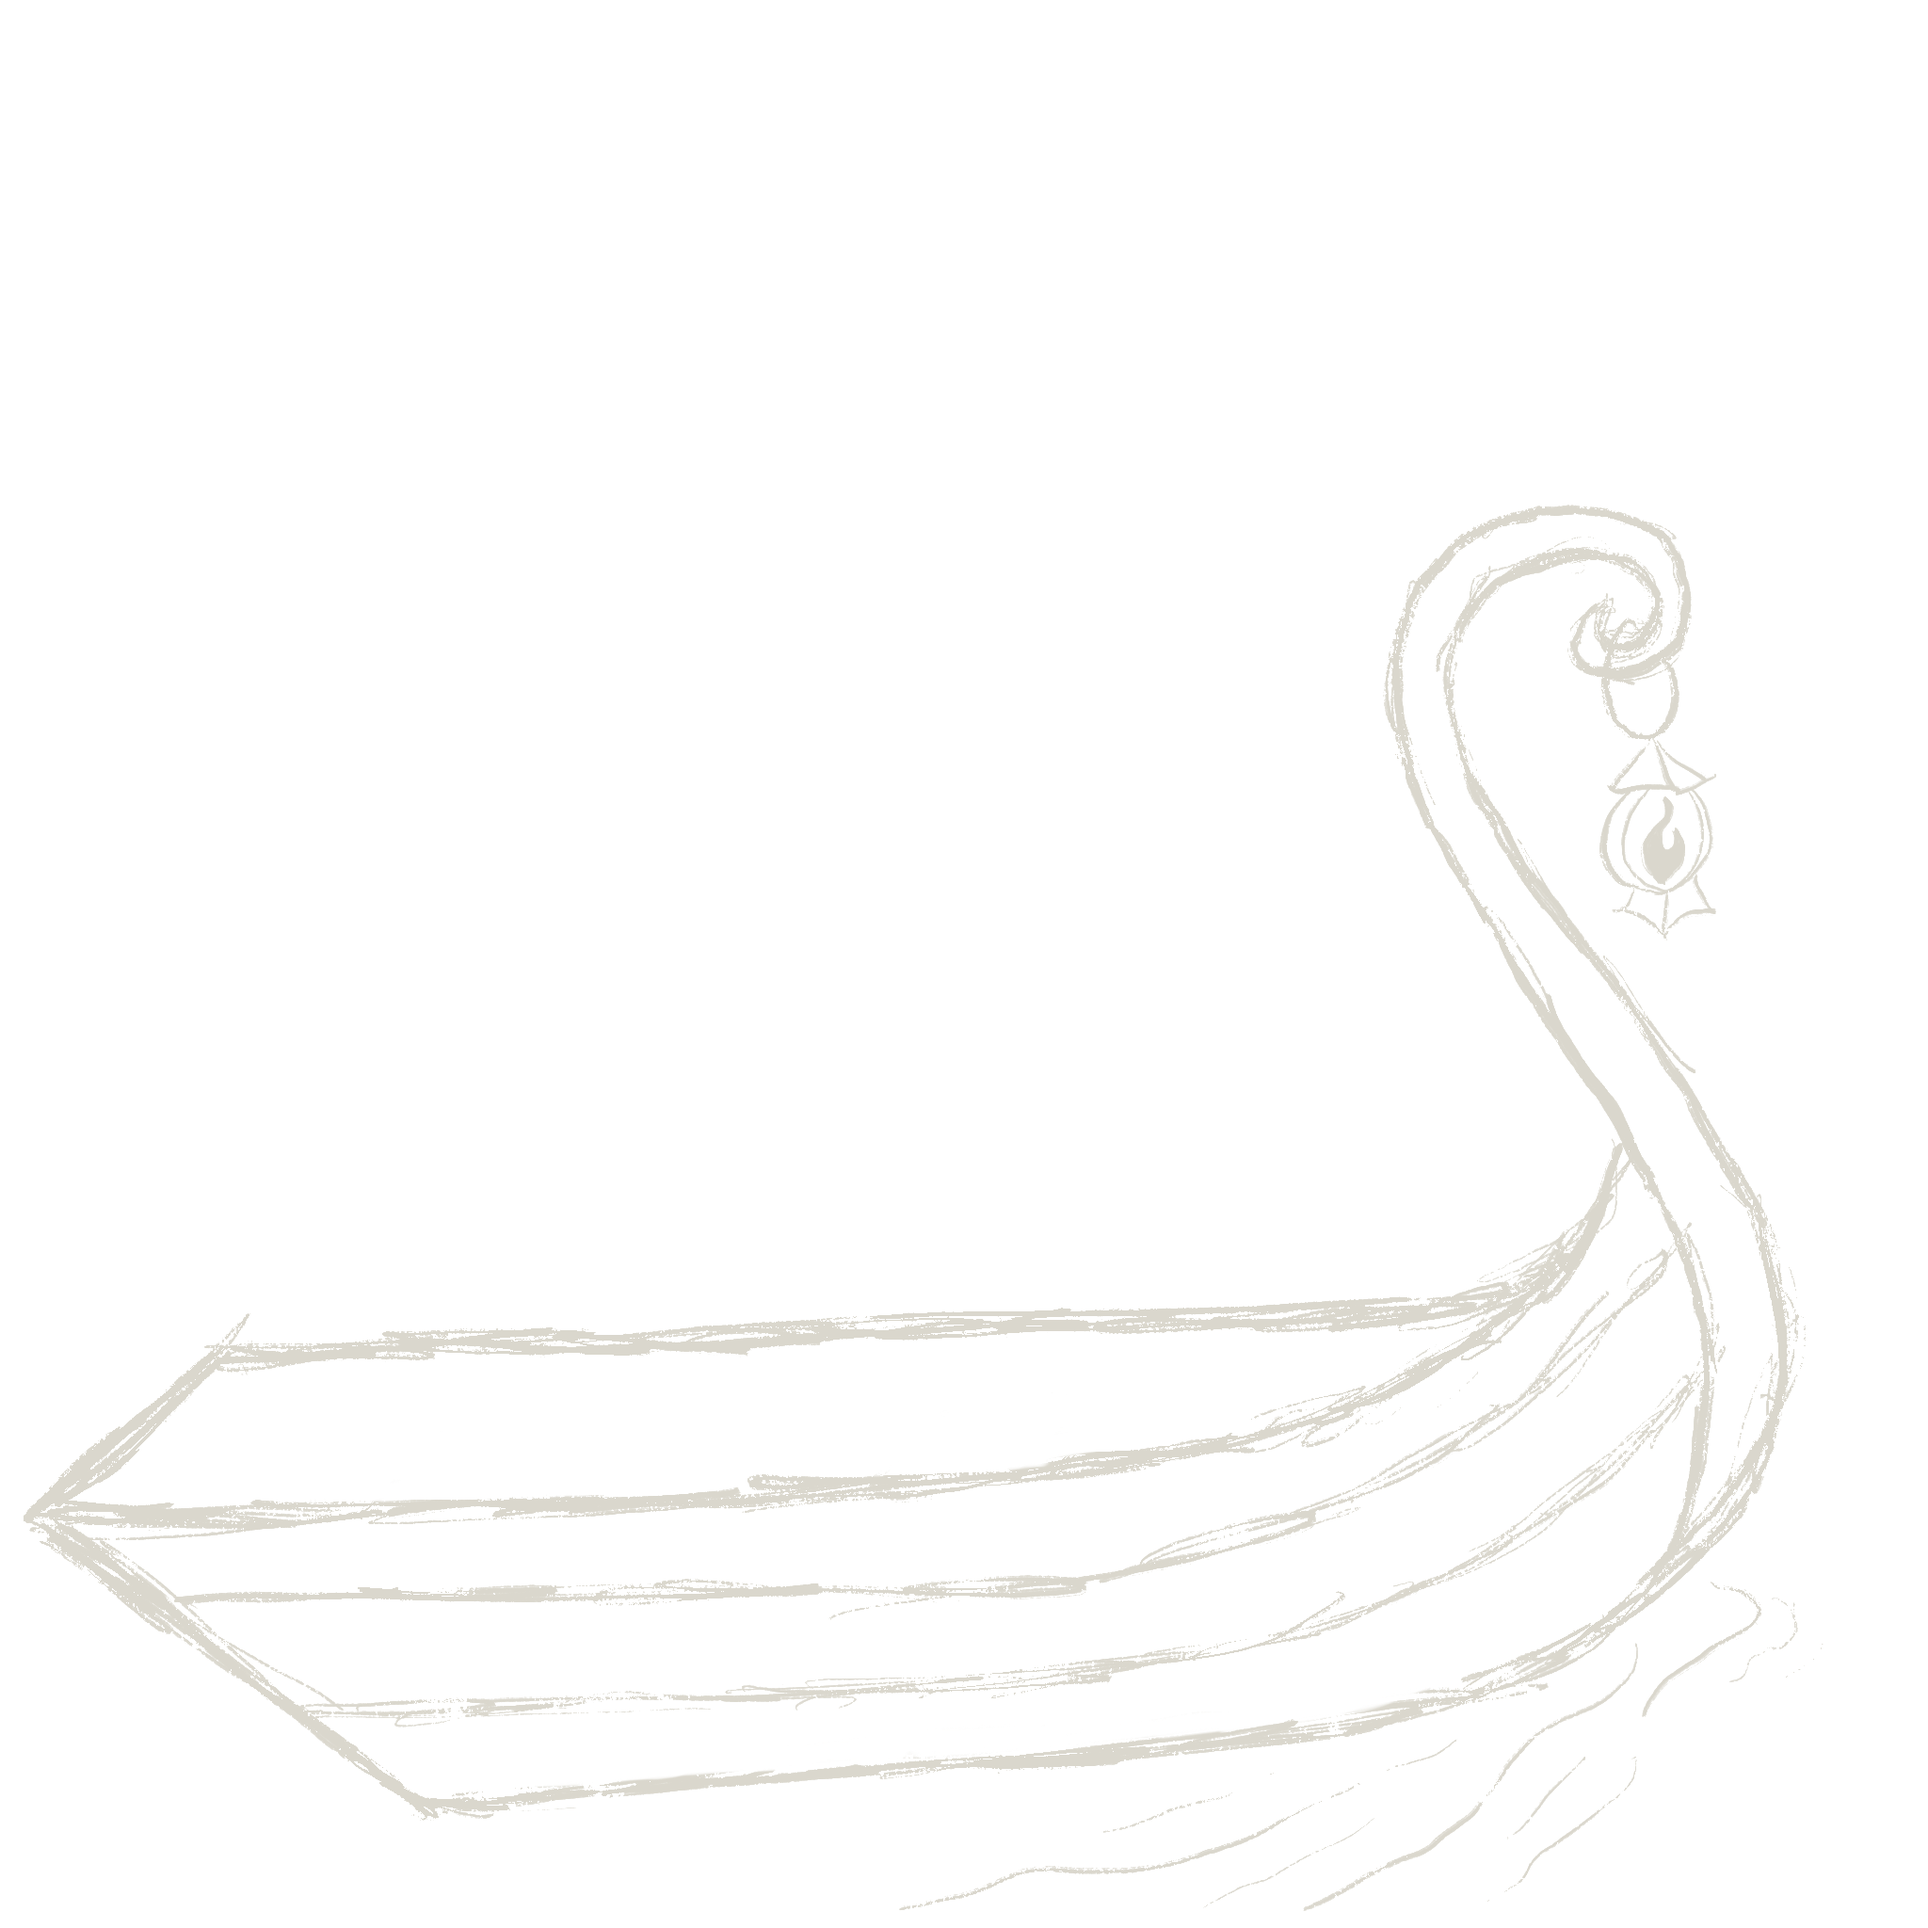
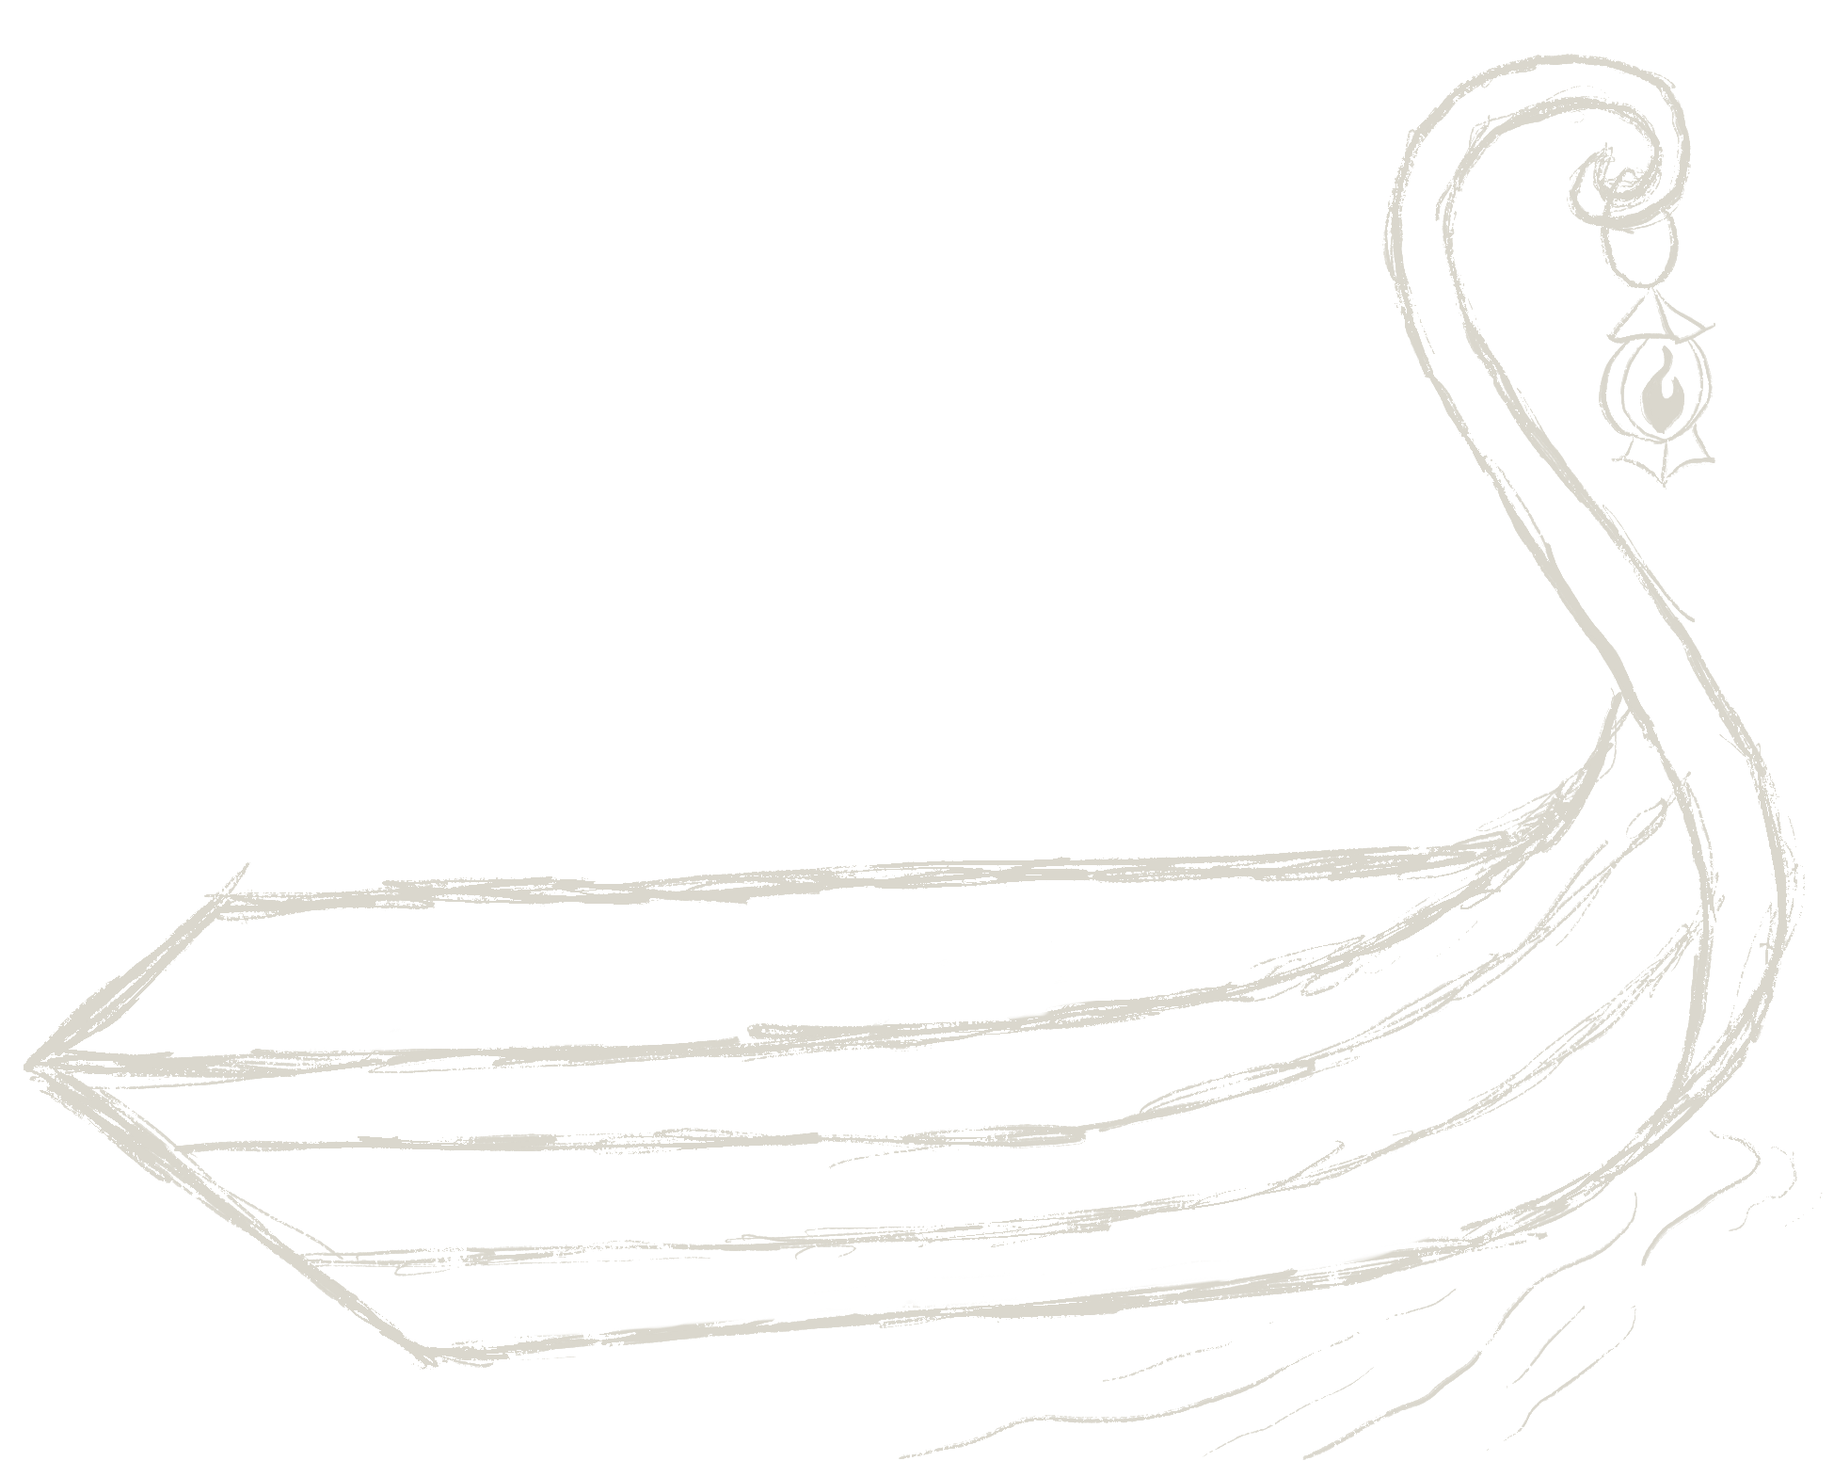
added animation to home page

Changed region(s): [[0.0, 0.0312, 0.9851, 0.9681], [0.7388, 0.9057, 0.8004, 0.9681], [0.7081, 0.9681, 0.7388, 0.9994]]

diff --git a/client/src/components/Header.jsx b/client/src/components/Header.jsx
@@ -1,13 +1,13 @@
-import { useState } from "react"
+// import { useState } from "react"
 
 const Header = () => {
-  const [ showDropDown, setShowDropDown ] = useState(false)
+  // const [ showDropDown, setShowDropDown ] = useState(false)
 
   return (
     <header className="px-2 pb-0 mb-0" style={{ borderBottom: "1px solid #333" }}>
       <nav className="navbar navbar-dark navbar-expand-md bg-body-secondary" data-bs-theme="dark">
         <div className="container-fluid">
-          {/* <a className="navbar-brand" href="##">Navbar</a> */}
+          <a className="navbar-brand" href="##">Navbar</a>
           <button className="navbar-toggler" type="button" data-bs-toggle="collapse" data-bs-target="#navbarSupportedContent" aria-controls="navbarSupportedContent" aria-expanded="false" aria-label="Toggle navigation">
             <span className="navbar-toggler-icon"></span>
           </button>

diff --git a/client/src/pages/HomePage.js b/client/src/pages/HomePage.js
@@ -1,5 +1,6 @@
 
 import {Ccc, CharonDd, Boat} from "../img/images"
+import { motion } from "framer-motion";
 const HomePage = (props) => {
 
   return (
@@ -7,13 +8,18 @@ const HomePage = (props) => {
       <img src={CharonDd} alt= "illustration reading: Charon death doula" className="charonDdImg"></img>
 
       <img src={Ccc} alt= "Illustration reading: Conscious compassionate care" className="cccImg"></img>
-    {/* <motion.div animate={{x:[0, 100], opacity: 1, scale: 1}}
+      <div className="motion">
+    <motion.div animate={{x:[0, 900]}}
     transition={{
-      duration:5,
+      ease: "linear",
+      duration: 20,
       delay: .5,
-    }} > */}
+    }} 
+    >
       <img src={Boat} alt= "illustration of boat with guiding light" className="boatImg" ></img>
-      {/* </motion.div> */}
+      </motion.div>
+     
+      </div>
     </div>
 
   )

diff --git a/client/src/styles/global.css b/client/src/styles/global.css
@@ -1,5 +1,7 @@
 
-
+* {
+  background-color: #1A1423;
+}
 /* === typography ====== */ 
 
 h1, h2, h3, h4, h5, h6, p, li, td, th, blockquote, label, input, textarea, select {
@@ -27,19 +29,20 @@ p {
 }
 .HomeContainer {
   display: flex;
-  flex-direction: column;
+  flex-wrap: wrap;
+  align-items: center;
 }
 .charonDdImg {
-  height: 20%;
-  width: 20%;
-}
-.cccImg {
-  height: 100%;
-  width: 100%;
-}
-.boatImg {
   height: 30%;
   width: 30%;
+}
+.cccImg {
+  height: 60%;
+  width: 60%;
+}
+.boatImg {
+  height: 20%;
+  width: 20%;
 }
 
 .footer {

diff --git a/client/src/pages/AboutPage.js b/client/src/pages/AboutPage.js
@@ -1,25 +1,7 @@
-import { useState, useEffect } from "react";
-import { useParams } from "react-router-dom";
+
 
 const AboutPage = (props) => {
-  const [users, setUsers] = useState([]);
-
-  const {id} = useParams();
-
-
-  async function getSample() {
-    console.log(id)
-    
-    const resp = await fetch("/api/sample");
-    const result = await resp.json();
-    if (result && result.length) {
-      setUsers(result);
-    }
-  }
-
-  useEffect(() => {
-    getSample();
-  }, []);
+  
 
   return (
     <div>

diff --git a/client/src/App.js b/client/src/App.js
@@ -1,5 +1,5 @@
 import React from "react";
-import { BrowserRouter, Routes, Route, useParams } from "react-router-dom";
+import { BrowserRouter, Routes, Route } from "react-router-dom";
 import { AboutPage, ContactPage, EducationPage, HomePage, ServicesPage} from "./pages";
 import CatchAllPage from "./pages/404"
 import { Header, Footer,Wrapper } from "./components"
